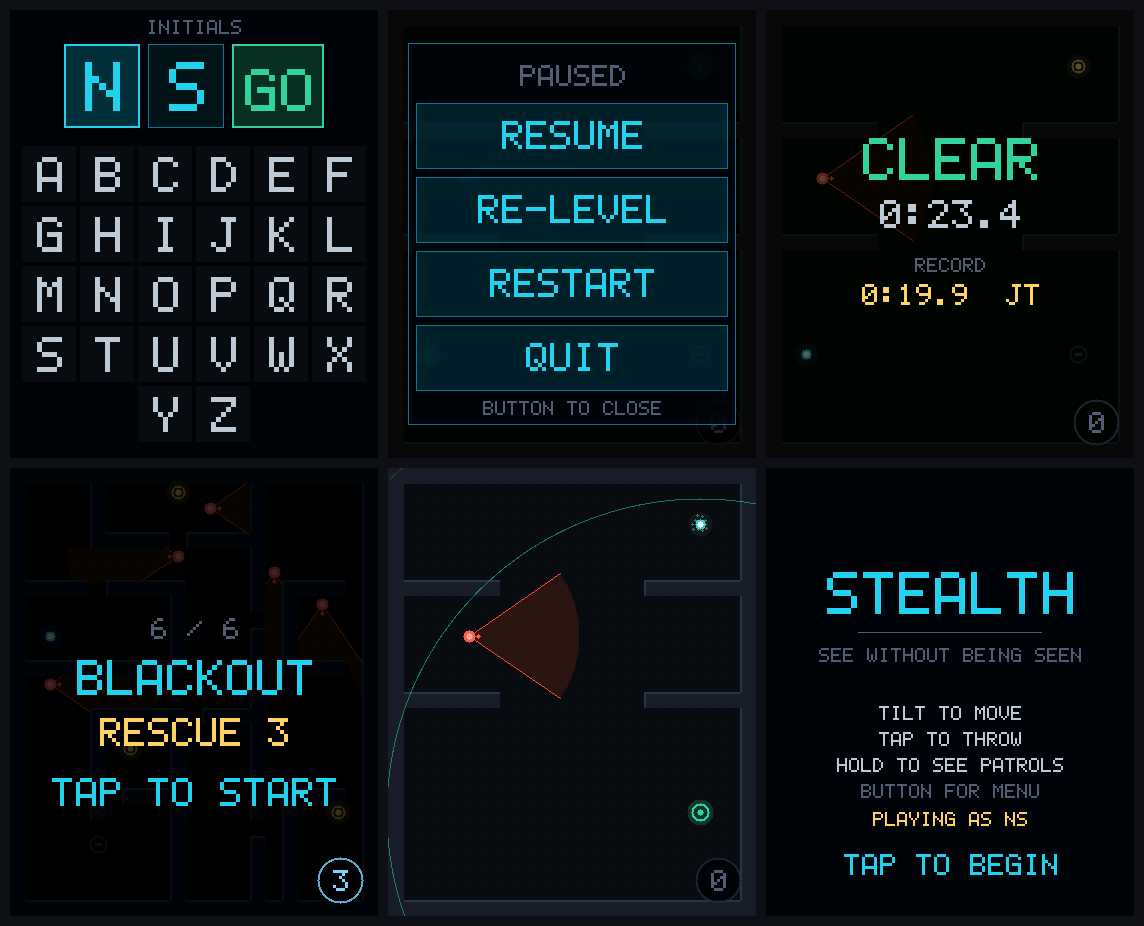
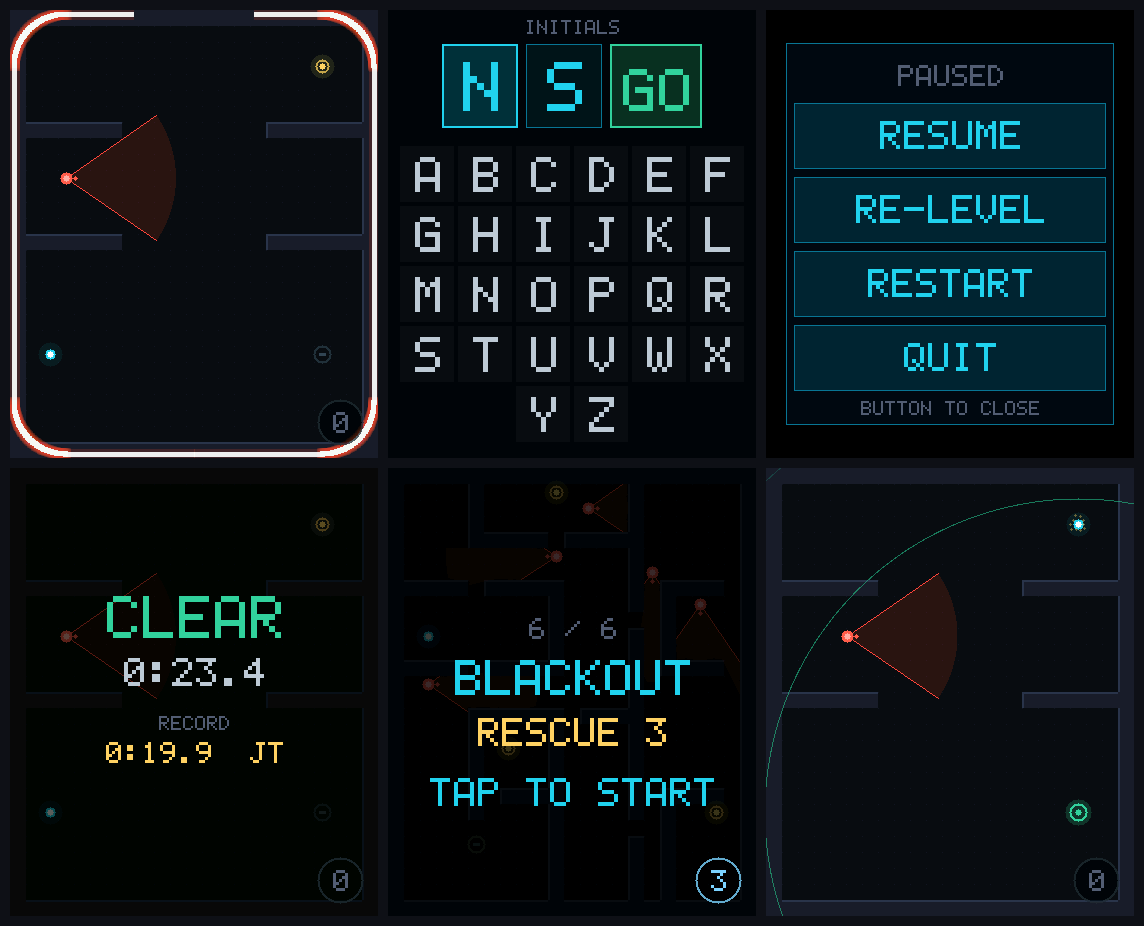
Alert meter traces the panel outline instead of climbing two columns
The meter now starts at bottom centre, runs outward in both directions,
rounds the lower corners, climbs both sides, rounds the upper corners, and
the two ends meet at top centre at the moment you are identified - the alert
literally closes around the screen.

Following the real corner radius is the point. The panel is a rounded
rectangle even though its framebuffer is square: 28.70mm of glass across
368px is 12.8px/mm and the corner measures about 4mm, so SCREEN_CORNER_R is
52px. A square path would vanish under the bezel at all four corners.

The path is decomposed into straight runs drawn as rects and corner arcs
drawn as chains of small squares, rather than stepping pixel by pixel around
the whole perimeter. Each arc bounding-box tests against the current band
first, so with the frame rasterised in 14 bands most of every arc is
discarded before a pixel is touched. Per branch the trace is 759px: 34% along
the top and bottom, 22% around the corners, 44% climbing the sides.

Measured on device at 33-34 FPS with the meter active.

diff --git a/main/hud.c b/main/hud.c
@@ -244,36 +244,121 @@ void initials_render(gfx_surf_t *s, const game_t *g)
 
 // ---- Drawing --------------------------------------------------------------
 
-// The alert meter lives in peripheral vision: two columns climb the left and
-// right edges, and the moment they reach the top you have been identified.
-#define ALERT_COL_W 7
+// The alert meter traces the panel's own outline. It starts at bottom centre,
+// runs outward in both directions, rounds the lower corners, climbs both
+// sides, rounds the upper corners, and the two ends meet at top centre at the
+// instant you are identified. Following the real corner radius matters: a
+// square path would vanish under the bezel at every corner.
+#define ALERT_INSET  4
+#define ALERT_THICK  5
 
-static void draw_alert_columns(gfx_surf_t *s, const game_t *g)
+#define HALF_PI  1.57079633f
+#define PI_F     3.14159265f
+
+// A run of `frac` of the arc from a0 toward a1, as a chain of small squares.
+// The frame is rasterised in bands, so most of any arc is discarded by the
+// bounding-box test before a single pixel is touched.
+static void arc_run(gfx_surf_t *s, float ccx, float ccy, float r,
+                    float a0, float a1, float frac, int t,
+                    uint16_t col, uint32_t alpha)
+{
+    if (frac <= 0.0f) return;
+    if (frac > 1.0f) frac = 1.0f;
+
+    if ((int)(ccy + r) + t < s->oy || (int)(ccy - r) - t > s->oy + s->h) return;
+
+    const int steps = (int)(fabsf(a1 - a0) * r) + 1;
+    const int n     = (int)((float)steps * frac + 0.5f);
+    for (int i = 0; i <= n; i++) {
+        const float a = a0 + (a1 - a0) * ((float)i / (float)steps);
+        gfx_blend_rect(s, (int)(ccx + cosf(a) * r) - t / 2,
+                          (int)(ccy + sinf(a) * r) - t / 2, t, t, col, alpha);
+    }
+}
+
+static void trace_branch(gfx_surf_t *s, float len, bool right, int t,
+                         uint16_t col, uint32_t alpha)
+{
+    const float R  = (float)SCREEN_CORNER_R;
+    const float x0 = (float)ALERT_INSET;
+    const float x1 = (float)(PLAY_W - ALERT_INSET);
+    const float y0 = (float)ALERT_INSET;
+    const float y1 = (float)(PLAY_H - ALERT_INSET);
+    const float cx = PLAY_W * 0.5f;
+
+    const float L1 = cx - (x0 + R);          // bottom centre to corner
+    const float LA = HALF_PI * R;            // one corner
+    const float L3 = (y1 - y0) - 2.0f * R;   // one side
+    const float dir = right ? 1.0f : -1.0f;
+
+    float rem = len;
+
+    // 1) outward along the bottom
+    float run = (rem < L1) ? rem : L1;
+    if (run > 0.0f) {
+        const float xa = right ? cx : (cx - run);
+        gfx_blend_rect(s, (int)xa, (int)y1 - t / 2, (int)run + 1, t, col, alpha);
+    }
+    rem -= L1;
+    if (rem <= 0.0f) return;
+
+    // 2) lower corner
+    arc_run(s, right ? (x1 - R) : (x0 + R), y1 - R, R,
+            HALF_PI, right ? 0.0f : PI_F, rem / LA, t, col, alpha);
+    rem -= LA;
+    if (rem <= 0.0f) return;
+
+    // 3) up the side
+    run = (rem < L3) ? rem : L3;
+    gfx_blend_rect(s, (int)(right ? x1 : x0) - t / 2, (int)((y1 - R) - run),
+                   t, (int)run + 1, col, alpha);
+    rem -= L3;
+    if (rem <= 0.0f) return;
+
+    // 4) upper corner
+    arc_run(s, right ? (x1 - R) : (x0 + R), y0 + R, R,
+            right ? 0.0f : PI_F, right ? -HALF_PI : (PI_F + HALF_PI),
+            rem / LA, t, col, alpha);
+    rem -= LA;
+    if (rem <= 0.0f) return;
+
+    // 5) inward along the top, toward the meeting point
+    run = (rem < L1) ? rem : L1;
+    {
+        const float xa = right ? (x1 - R) : (x0 + R);
+        const float xl = (dir > 0.0f) ? (xa - run) : xa;
+        gfx_blend_rect(s, (int)xl, (int)y0 - t / 2, (int)run + 1, t, col, alpha);
+    }
+}
+
+static void draw_alert_trace(gfx_surf_t *s, const game_t *g)
 {
     if (g->phase != GS_PLAY && g->phase != GS_CAUGHT) return;
 
     const float a = g->max_alert;
     if (a <= 0.001f) return;
 
-    int h = (int)(a * (float)PLAY_H + 0.5f);
-    if (h < 2) h = 2;
-    const int y = PLAY_H - h;
+    const float R  = (float)SCREEN_CORNER_R;
+    const float L1 = PLAY_W * 0.5f - (ALERT_INSET + R);
+    const float LA = HALF_PI * R;
+    const float L3 = (float)(PLAY_H - 2 * ALERT_INSET) - 2.0f * R;
+    const float total = L1 + LA + L3 + LA + L1;
 
-    const bool critical = (a > 0.75f);
+    const float len = a * total;
+    const bool  critical = (a > 0.75f);
     const uint16_t col = critical ? COL_WHITE : COL_ALERT;
-    const uint32_t body = (uint32_t)(5.0f + a * 16.0f);
+    const uint32_t alpha = (uint32_t)(13.0f + a * 19.0f);
 
-    gfx_blend_rect(s, 0, y, ALERT_COL_W, h, col, body);
-    gfx_blend_rect(s, PLAY_W - ALERT_COL_W, y, ALERT_COL_W, h, col, body);
-    gfx_blend_rect(s, 0, y, ALERT_COL_W, 2, col, GFX_ALPHA_MAX);
-    gfx_blend_rect(s, PLAY_W - ALERT_COL_W, y, ALERT_COL_W, 2, col, GFX_ALPHA_MAX);
-
+    // A wider, fainter pass underneath reads as a glow once it is closing in.
     if (critical) {
         const float p = 0.5f + 0.5f * sinf(g->level_time * 16.0f);
-        const uint32_t flare = (uint32_t)(6.0f + p * 12.0f);
-        gfx_blend_rect(s, 0, y, ALERT_COL_W + 3, h, COL_ALERT, flare);
-        gfx_blend_rect(s, PLAY_W - ALERT_COL_W - 3, y, ALERT_COL_W + 3, h, COL_ALERT, flare);
+        const uint32_t flare = (uint32_t)(4.0f + p * 8.0f);
+        trace_branch(s, len, false, ALERT_THICK + 6, COL_ALERT, flare);
+        trace_branch(s, len, true,  ALERT_THICK + 6, COL_ALERT, flare);
     }
+
+    trace_branch(s, len, false, ALERT_THICK, col, alpha);
+    trace_branch(s, len, true,  ALERT_THICK, col, alpha);
 }
 
 static void draw_toast(gfx_surf_t *s)
@@ -326,7 +411,7 @@ void hud_render(gfx_surf_t *s, const game_t *g)
 {
     if (g->phase == GS_INITIALS) return;
 
-    draw_alert_columns(s, g);
+    draw_alert_trace(s, g);
     draw_reveal_label(s, g);
 
     if (g->phase != GS_TITLE && g->phase != GS_WIN) {

diff --git a/main/game.h b/main/game.h
@@ -30,6 +30,11 @@ extern "C" {
 #define MAX_WAYPOINTS   6
 #define MAX_PARTICLES   48
 
+// The panel is a rounded rectangle: 28.70mm of glass across 368px is
+// 12.8px/mm, and the corner measures about 4mm, so ~52px. Anything drawn
+// outside this curve sits under the bezel and is never seen.
+#define SCREEN_CORNER_R 52
+
 // ---- Tuning ---------------------------------------------------------------
 #define PLAYER_R          5.0f
 // Speed rises continuously with tilt angle rather than stepping between a

diff --git a/README.md b/README.md
@@ -23,10 +23,11 @@ there", their cone turns hot and an alarm stabs — the same `detecting` flag
 drives both, so the sound always lands on the frame you see the colour change.
 
 Detection is a meter, not a trigger. Being clipped by the edge of a cone for a
-moment is survivable; standing in the middle of one is not. The meter climbs
-two columns up the left and right edges of the screen — when they reach the
-top you have been identified — so it reads in peripheral vision without
-looking away from the guard about to see you. You can hear it happening too:
+moment is survivable; standing in the middle of one is not. The meter traces
+the panel's own outline: it starts at bottom centre, runs outward both ways,
+rounds the lower corners, climbs both sides, rounds the upper corners, and the
+two ends meet at top centre at the instant you are identified. It reads in
+peripheral vision without looking away from the guard about to see you. You can hear it happening too:
 the heartbeat's rate and volume both track the closest guard's certainty.
 
 Once you *are* seen, running is not an escape. A chasing guard moves at least
@@ -112,8 +113,12 @@ Every on-screen element, rendered from the game's own palette and rasteriser:
 The game uses the whole 368x448 panel — there is no HUD strip. The play field
 is 23x28 tiles at 16px, which fills the panel exactly. The handful of things
 that must stay visible float over the field instead of taking a band from it:
-level and hostage tally top-left, bombs remaining bottom-right, and the alert
-meter climbing the left and right edges.
+bombs remaining bottom-right, and the alert meter tracing the panel outline.
+
+The panel is a rounded rectangle, not the square its framebuffer implies:
+28.70mm of glass across 368px is 12.8px/mm, and the corner measures about 4mm,
+so `SCREEN_CORNER_R` is 52px. The alert trace follows that curve — a square
+path would disappear under the bezel at every corner.
 
 When the last hostage is freed and the exit unlocks, a ring far wider than the
 panel collapses onto the exit over 500ms — the one moment worth interrupting
